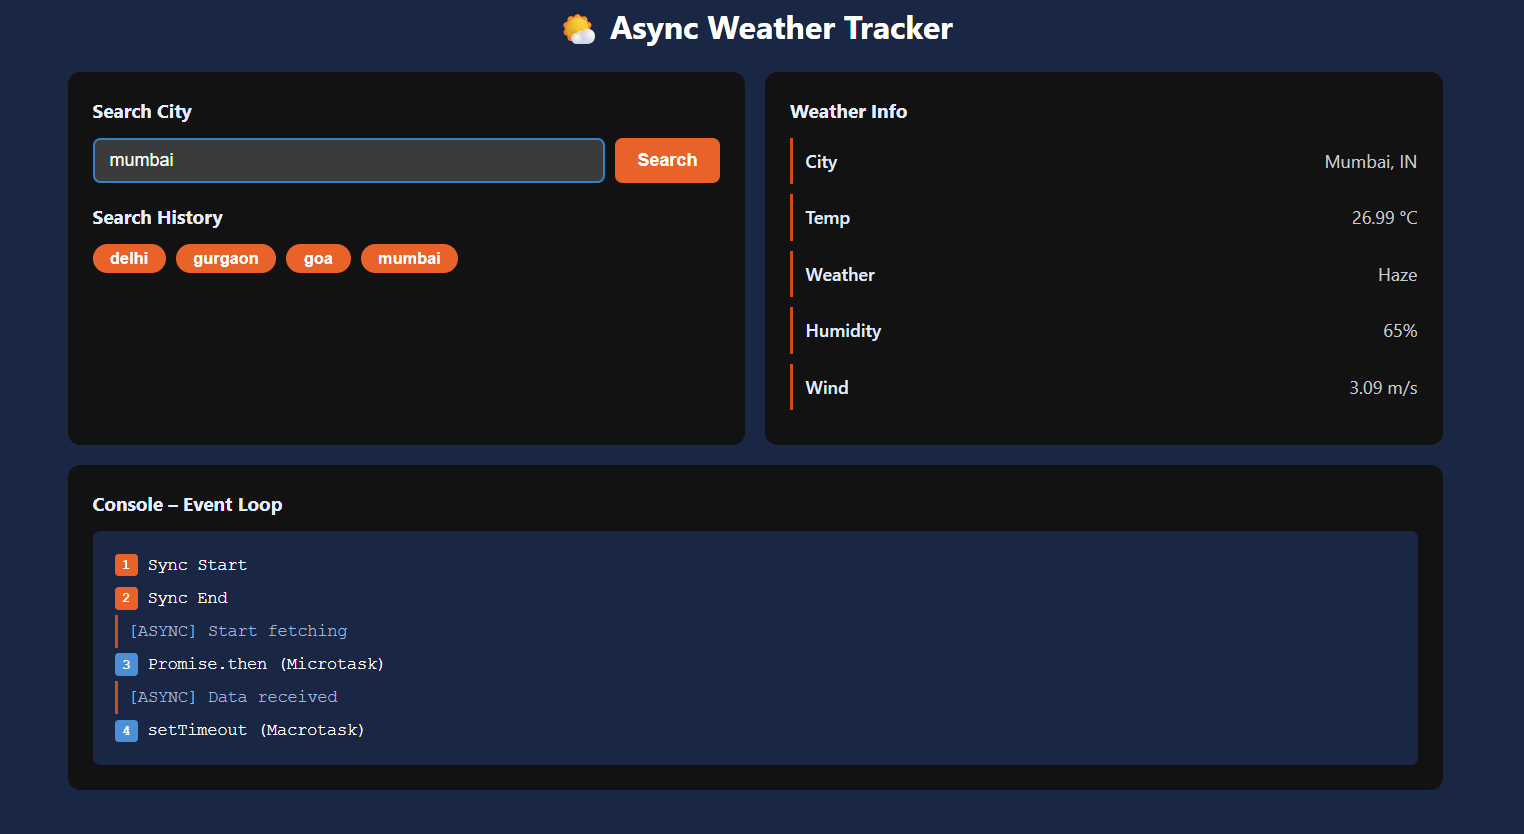
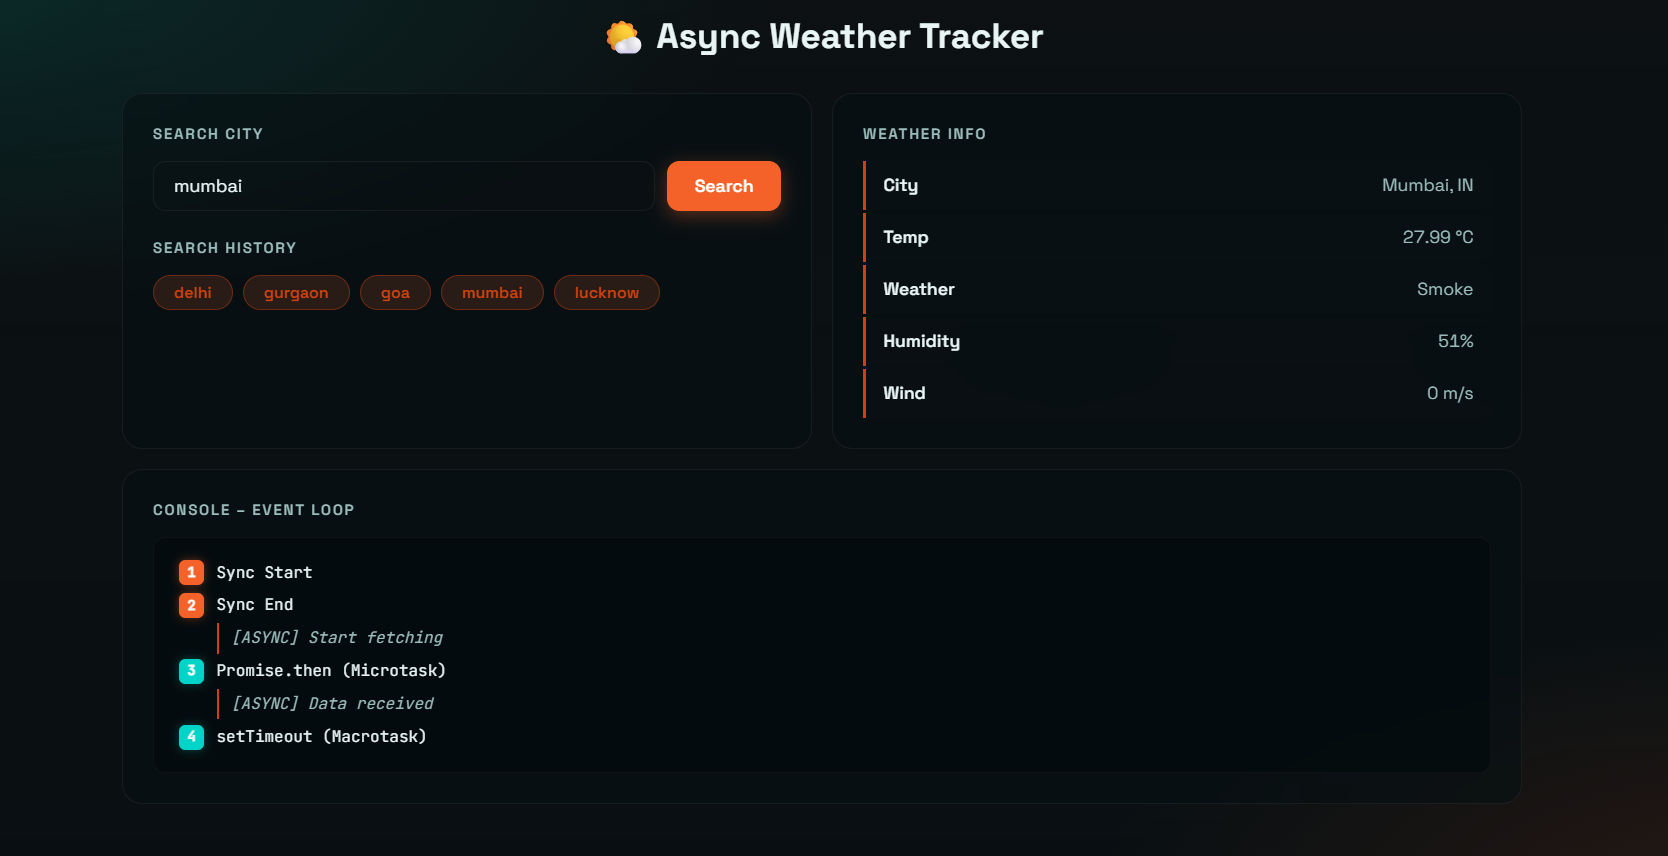
Output Sample update

diff --git a/style.css b/style.css
@@ -1,166 +1,155 @@
-* {
-  margin: 0;
-  padding: 0;
-  box-sizing: border-box;
+@import url('https://fonts.googleapis.com/css2?family=Space+Grotesk:wght@400;600;700&family=JetBrains+Mono&display=swap');
+
+*, *::before, *::after { margin: 0; padding: 0; box-sizing: border-box; }
+
+:root {
+  --bg:      #050e12;
+  --card:    rgba(5, 14, 18, 0.55);
+  --border:  rgba(255,255,255,0.18);
+  --accent:  #f4622a;
+  --accent2: #00d4c8;
+  --text:    #e8f5f4;
+  --muted:   #9bbdbb;
+  --dim:     #2e5250;
+  --con-bg:  rgba(2, 10, 13, 0.80);
 }
 
+/* ── Background ── */
 body {
-  background-color: #1a2744;
-  font-family: 'Segoe UI', sans-serif;
-  padding: 30px 20px;
+  min-height: 100vh;
+  font-family: 'Space Grotesk', sans-serif;
+  color: var(--text);
+  padding: 36px 24px 48px;
+  position: relative;
+  isolation: isolate;
+}
+
+body::before {
+  content: '';
+  position: fixed;
+  inset: 0;
+  z-index: -1;
+  background:
+    url('https://images.unsplash.com/photo-1504608524841-42584120d693?w=1800&q=80')
+    center / cover no-repeat;
+  filter: brightness(0.22) saturate(1.4);
+}
+
+/* dark gradient overlay so cards stay readable */
+body::after {
+  content: '';
+  position: fixed;
+  inset: 0;
+  z-index: -1;
+  background:
+    radial-gradient(ellipse 80% 60% at 0%   0%,   rgba(0,180,160,0.18) 0%, transparent 60%),
+    radial-gradient(ellipse 60% 50% at 100% 100%, rgba(244,98,42,0.12) 0%, transparent 60%),
+    linear-gradient(180deg, rgba(5,14,18,0.45) 0%, rgba(5,14,18,0.65) 100%);
 }
 
 .main-title {
-  text-align: center;
-  color: #fff;
-  font-size: 1.6rem;
-  margin-bottom: 20px;
+  text-align: center; font-size: 1.75rem; font-weight: 700; margin-bottom: 28px;
+  display: flex; align-items: center; justify-content: center; gap: 10px;
 }
 
 .container {
-  display: grid;
-  grid-template-columns: 1fr 1fr;
-  gap: 16px;
-  max-width: 1100px;
-  margin: 0 auto 16px auto;
+  display: grid; grid-template-columns: 1fr 1fr; gap: 16px;
+  max-width: 1120px; margin: 0 auto 16px;
 }
 
-.weatherForm,
-.info,
-.console-box {
-  background: #fff;
-  border-radius: 10px;
-  padding: 20px;
+.weatherForm, .info, .console-box {
+  background: var(--card);
+  border: 1px solid var(--border);
+  border-radius: 16px; padding: 24px;
+  backdrop-filter: blur(14px);
+  -webkit-backdrop-filter: blur(14px);
+  transition: border-color 0.2s, box-shadow 0.2s;
 }
-
-.console-box {
-  max-width: 1100px;
-  margin: 0 auto;
+.weatherForm:hover, .info:hover {
+  border-color: rgba(0,212,200,0.4);
+  box-shadow: 0 8px 32px rgba(0,0,0,0.5), 0 0 0 1px rgba(0,212,200,0.08);
 }
+.console-box { max-width: 1120px; margin: 0 auto; }
 
 h3 {
-  font-size: 0.95rem;
-  font-weight: 700;
-  color: #1a2744;
-  margin-bottom: 12px;
+  font-size: 0.75rem; font-weight: 600; letter-spacing: 0.12em;
+  text-transform: uppercase; color: var(--muted); margin-bottom: 14px;
 }
 
-#form {
-  display: flex;
-  gap: 8px;
-  margin-bottom: 16px;
-}
+#form { display: flex; gap: 10px; margin-bottom: 22px; }
 
 #city {
-  flex: 1;
-  padding: 8px 12px;
-  border: 2px solid #4a90d9;
-  border-radius: 6px;
-  font-size: 0.9rem;
-  outline: none;
+  flex: 1; padding: 10px 16px;
+  background: rgba(255,255,255,0.07);
+  border: 1px solid rgba(255,255,255,0.2);
+  border-radius: 10px; font-family: inherit; font-size: 0.9rem;
+  color: var(--text); outline: none;
+  transition: border-color 0.2s, box-shadow 0.2s;
 }
+#city::placeholder { color: var(--dim); }
+#city:focus { border-color: var(--accent2); box-shadow: 0 0 0 3px rgba(0,212,200,0.18); }
 
 #form button {
-  padding: 8px 18px;
-  background: #e8622a;
-  color: #fff;
-  border: none;
-  border-radius: 6px;
-  font-size: 0.9rem;
-  font-weight: 600;
-  cursor: pointer;
+  padding: 10px 22px; background: var(--accent); color: #fff; border: none;
+  border-radius: 10px; font-family: inherit; font-size: 0.88rem; font-weight: 600;
+  cursor: pointer; box-shadow: 0 4px 14px rgba(244,98,42,0.35);
+  transition: background 0.2s, transform 0.15s;
 }
+#form button:hover { background: #ff7040; transform: translateY(-1px); }
 
-#form button:hover {
-  background: #cf4f1f;
-}
-
-.historyBtn {
-  display: flex;
-  flex-wrap: wrap;
-  gap: 8px;
-}
-
+.historyBtn { display: flex; flex-wrap: wrap; gap: 8px; }
 .pill {
-  background: #e8622a;
-  color: #fff;
-  border: none;
-  border-radius: 20px;
-  padding: 4px 14px;
-  font-size: 0.82rem;
-  font-weight: 600;
-  cursor: pointer;
+  background: rgba(244,98,42,0.14); color: var(--accent);
+  border: 1px solid rgba(244,98,42,0.4); border-radius: 20px;
+  padding: 5px 16px; font-family: inherit; font-size: 0.8rem; font-weight: 600;
+  cursor: pointer; transition: background 0.2s, transform 0.15s;
 }
+.pill:hover { background: rgba(244,98,42,0.3); transform: translateY(-1px); }
 
-.pill:hover {
-  background: #cf4f1f;
-}
-
+.weather-details { display: flex; flex-direction: column; gap: 2px; }
 .weather-row {
-  display: flex;
-  justify-content: space-between;
-  padding: 9px 0 9px 10px;
-  border-left: 3px solid #e8622a;
-  margin-bottom: 8px;
-  font-size: 0.9rem;
+  display: flex; justify-content: space-between; align-items: center;
+  padding: 11px 14px; border-left: 3px solid var(--accent);
+  border-radius: 0 8px 8px 0; background: rgba(255,255,255,0.04);
+  font-size: 0.88rem; transition: background 0.2s; animation: rowIn 0.3s ease both;
 }
+.weather-row:hover { background: rgba(255,255,255,0.08); }
+.weather-row span:first-child { font-weight: 600; }
+.weather-row span:last-child  { color: var(--muted); font-variant-numeric: tabular-nums; }
+.weather-row:nth-child(1){animation-delay:.05s} .weather-row:nth-child(2){animation-delay:.10s}
+.weather-row:nth-child(3){animation-delay:.15s} .weather-row:nth-child(4){animation-delay:.20s}
+.weather-row:nth-child(5){animation-delay:.25s}
 
-.weather-row span:first-child {
-  font-weight: 600;
-  color: #1a2744;
-}
+@keyframes rowIn { from{opacity:0;transform:translateX(-8px)} to{opacity:1;transform:translateX(0)} }
 
-.weather-row span:last-child {
-  color: #444;
+.error-msg, .weather-details p {
+  font-size: 0.88rem; padding: 10px 14px;
+  border-left: 3px solid var(--accent); border-radius: 0 8px 8px 0;
+  background: rgba(244,98,42,0.08);
 }
-
-.error-msg {
-  color: #e8622a;
-  font-weight: 600;
-  font-size: 0.9rem;
-  padding-left: 10px;
-  border-left: 3px solid #e8622a;
-}
+.error-msg { color: var(--accent); font-weight: 600; }
+.weather-details p { color: var(--muted); border-color: rgba(255,255,255,0.2); background: rgba(255,255,255,0.03); }
 
 .console-output {
-  background: #1a2744;
-  border-radius: 6px;
-  padding: 14px 18px;
-  min-height: 110px;
-  font-family: 'Courier New', monospace;
-  font-size: 0.83rem;
-  line-height: 2;
+  background: var(--con-bg); border: 1px solid rgba(255,255,255,0.1);
+  border-radius: 10px; padding: 16px 20px; min-height: 120px;
+  font-family: 'JetBrains Mono', monospace; font-size: 0.8rem; line-height: 1.9;
+  display: flex; flex-direction: column; gap: 2px;
 }
-
-.log-line {
-  display: flex;
-  align-items: center;
-  gap: 8px;
-  color: #fff;
-}
+.log-line { display: flex; align-items: center; gap: 10px; animation: fadeUp 0.2s ease both; }
+@keyframes fadeUp { from{opacity:0;transform:translateY(4px)} to{opacity:1;transform:translateY(0)} }
 
 .badge {
-  width: 18px;
-  height: 18px;
-  border-radius: 3px;
-  flex-shrink: 0;
-  display: flex;
-  align-items: center;
-  justify-content: center;
-  font-size: 0.7rem;
-  font-weight: 700;
-  color: #fff;
+  min-width: 20px; height: 20px; border-radius: 5px; flex-shrink: 0;
+  display: flex; align-items: center; justify-content: center;
+  font-size: 0.68rem; font-weight: 700; color: #fff;
 }
-
-.orange { background: #e8622a; }
-.blue   { background: #4a90d9; }
-
-.async-line {
-  color: #a0b4d6;
-  border-left: 3px solid #e8622a;
-  padding-left: 8px;
-}
+.orange { background: var(--accent);  box-shadow: 0 0 8px rgba(244,98,42,0.4); }
+.blue   { background: var(--accent2); box-shadow: 0 0 8px rgba(0,212,200,0.3); }
+.async-line { color: var(--muted); font-style: italic; border-left: 2px solid var(--accent); padding-left: 10px; margin-left: 30px; }
 
 @media (max-width: 700px) {
   .container { grid-template-columns: 1fr; }
+  .main-title { font-size: 1.3rem; }
+  body { padding: 24px 16px 40px; }
 }
